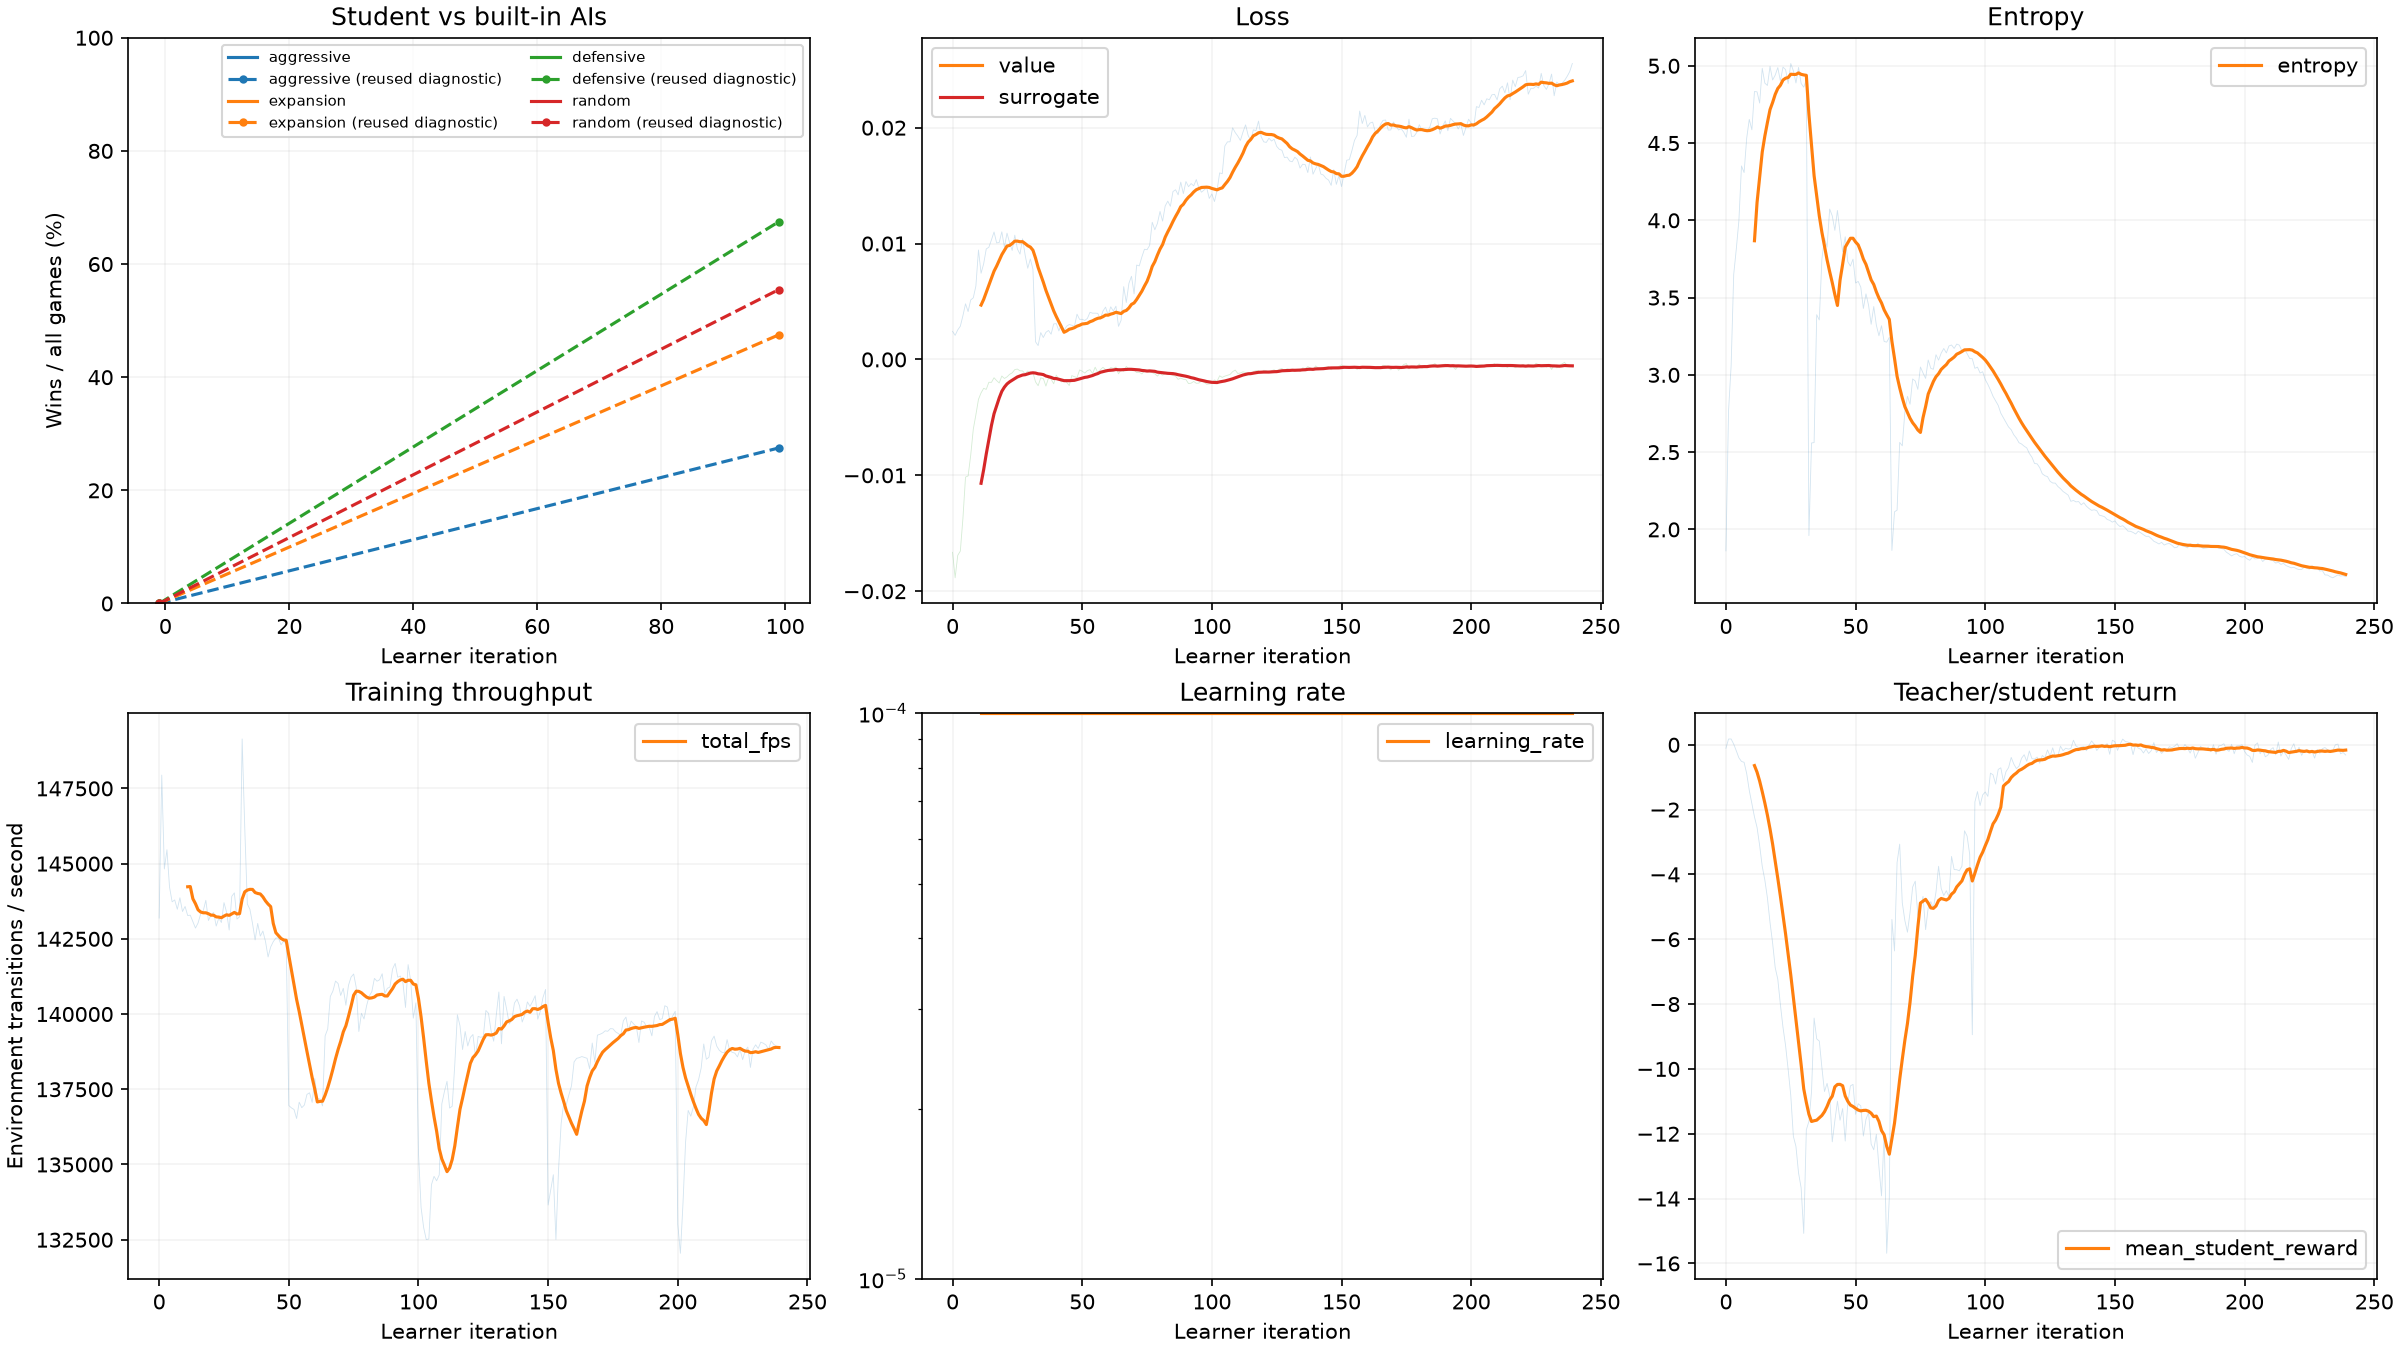
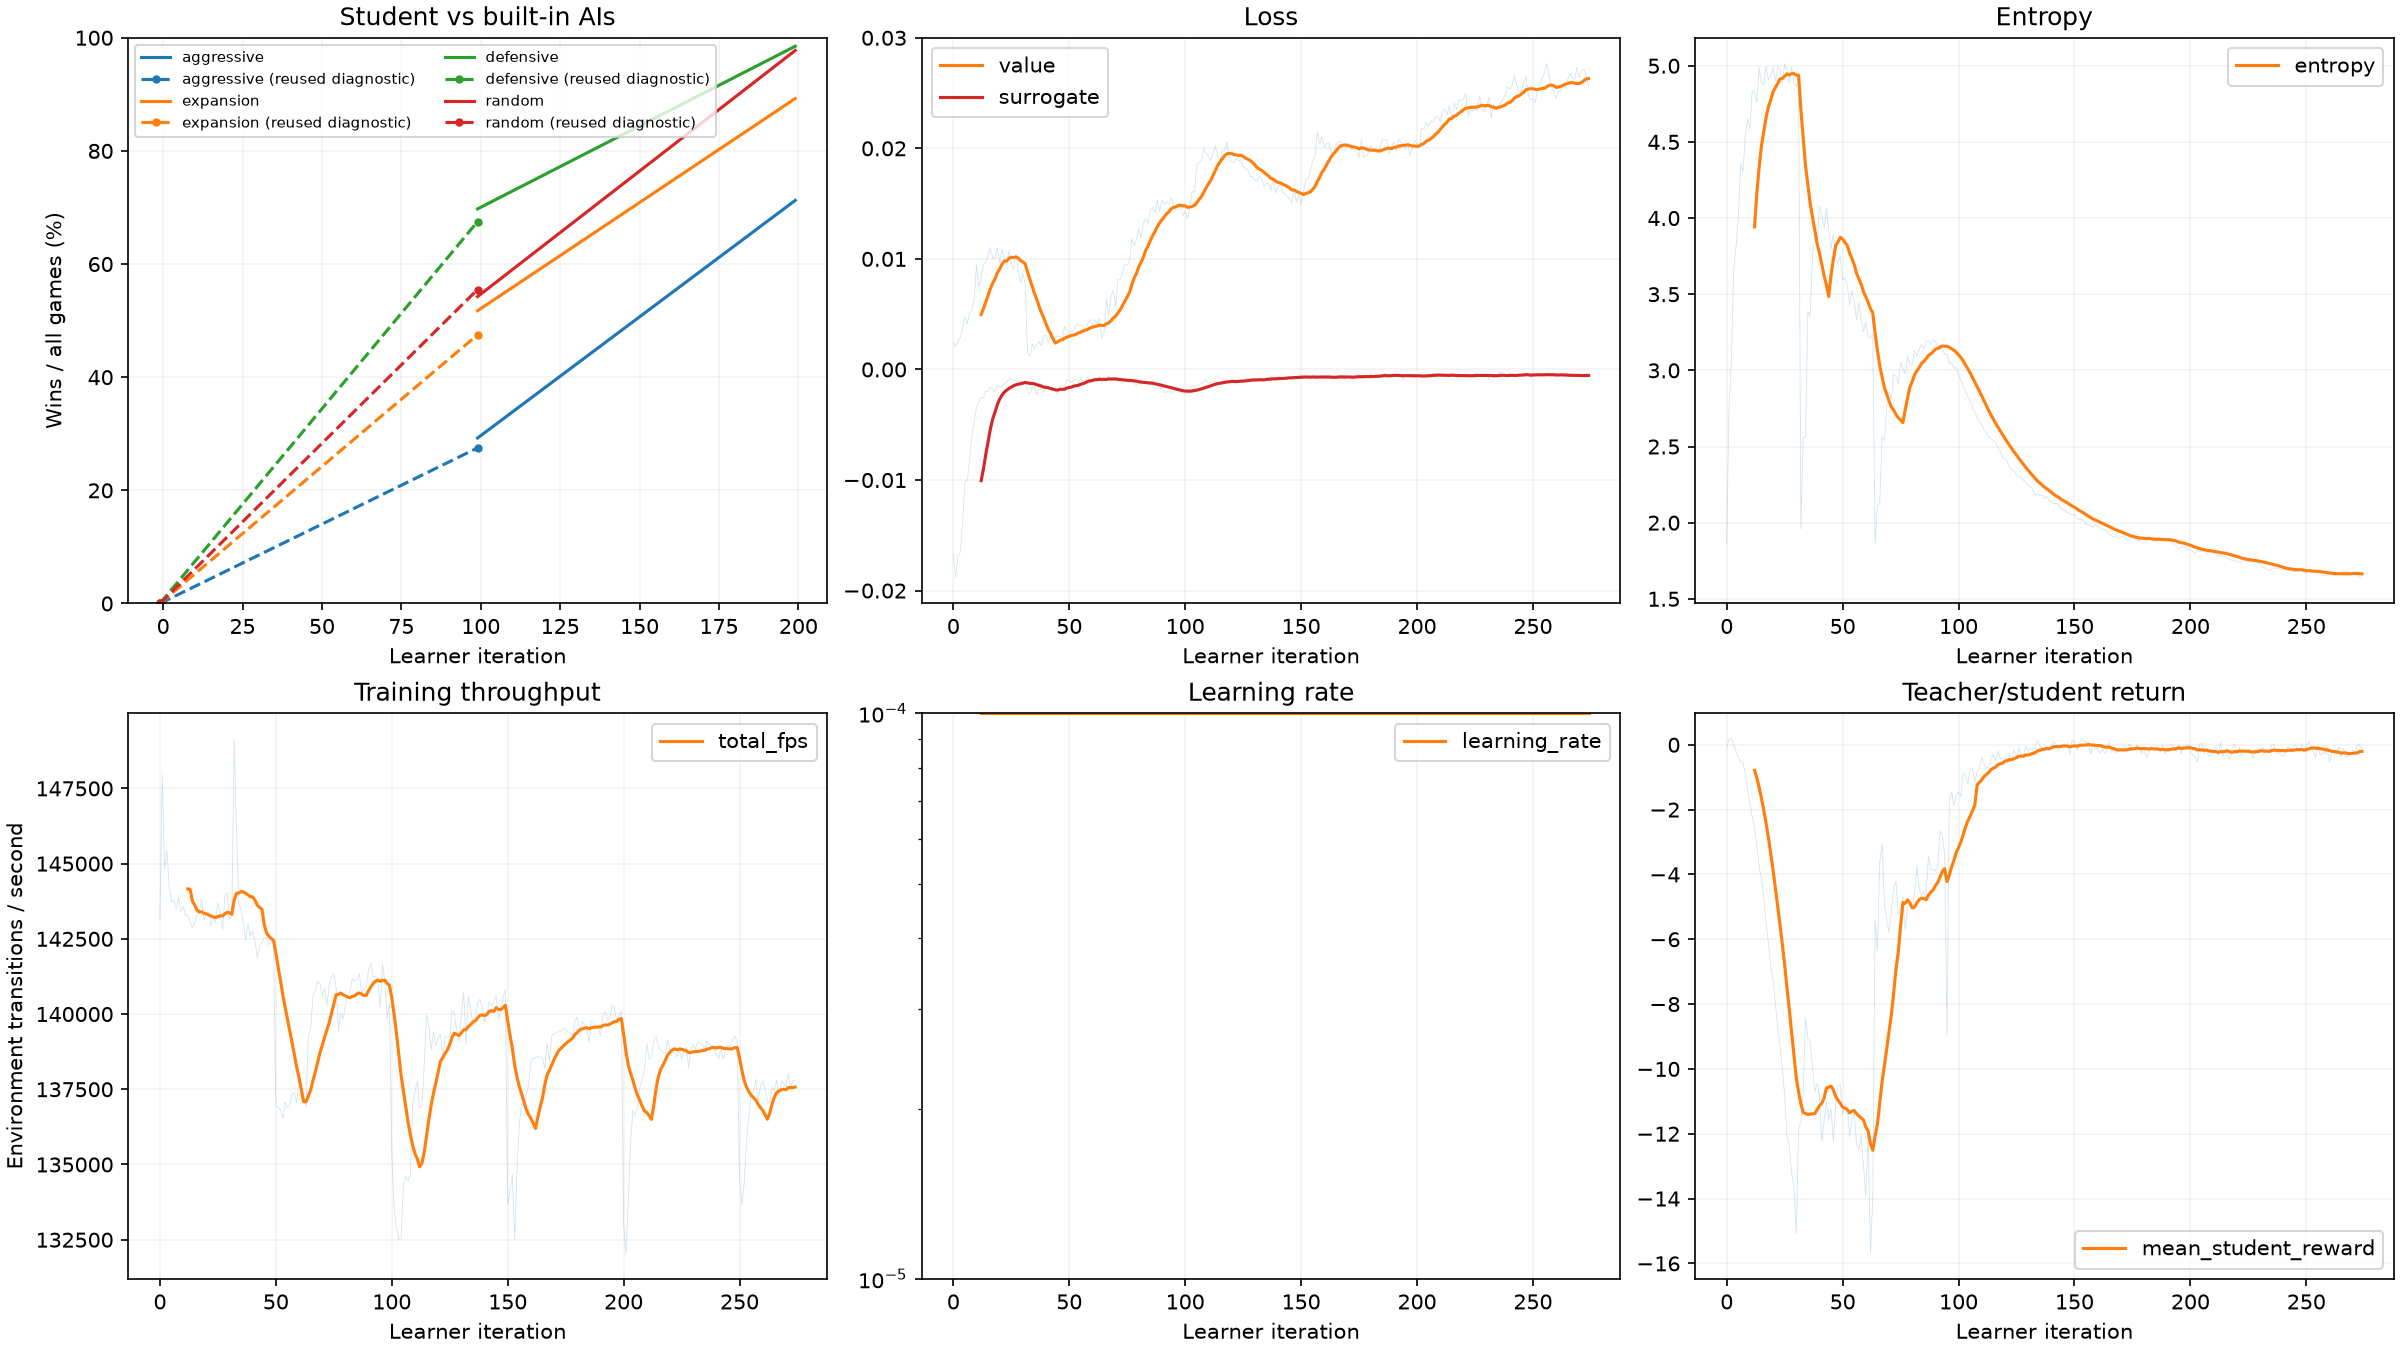
docs(rl): record v18 recovery at 199 updates

diff --git a/doc/rl_train_log.md b/doc/rl_train_log.md
@@ -876,8 +876,10 @@ Report SHA `ee821f103c02bbc42751e4953fe11143b083ee4c8bfb0443c92900c868653a1b`；
 
[1 lines of base64/hex data omitted]
 
[2 lines of base64/hex data omitted]
 
-早期只有一个完整选模点，不能判断最终结构收益或平台；至少预算1h尚未到，继续训练。约244updates时value loss波动上升至.02、entropy降至约1.7、自对弈return靠近0，return不代表固定baseline胜率。正式吞吐约13.3–14.4万条转移/s；图仅显示已经完成的评测，非最终胜率曲线。
+早期只有两个完整选模点，不能判断最终结构收益或平台；至少预算1h尚未到，继续训练。约244updates时value loss波动上升至.02、entropy降至约1.7、自对弈return靠近0，return不代表固定baseline胜率。正式吞吐约13.3–14.4万条转移/s；图仅显示已经完成的评测，非最终胜率曲线。
 
-![v18早期：首个完整selector99、初始与99新开发结果，以及实际训练指标](rl_train_figures/v18.png)
+![v18早期：完整selector99/199、初始与99新开发结果，以及实际训练指标](rl_train_figures/v18.png)
+
+**199选模点。** 完整1600局A/E/D/R为 **71.25% / 89.25% / 98.5% / 97.75%**、worker117.201s/exit0，较99明显上升。与v17/199有序1600地图/controller/seat完全一致，四率差−1/0/0/+.25pp，已接近参考早期表现，仍未到目标。人工模型保持2/4，不额外复制199；中期499预留第3名额，最后1个名额留给正常结束后的最终best。08:25UTC实际PID2660864/session15200仍运行，262完整更新/137,363,456新转移、compute约13.75万/s；历史6≤8、learner1≤3、人工2≤4，尚无终局summary或版本无提升结算。
